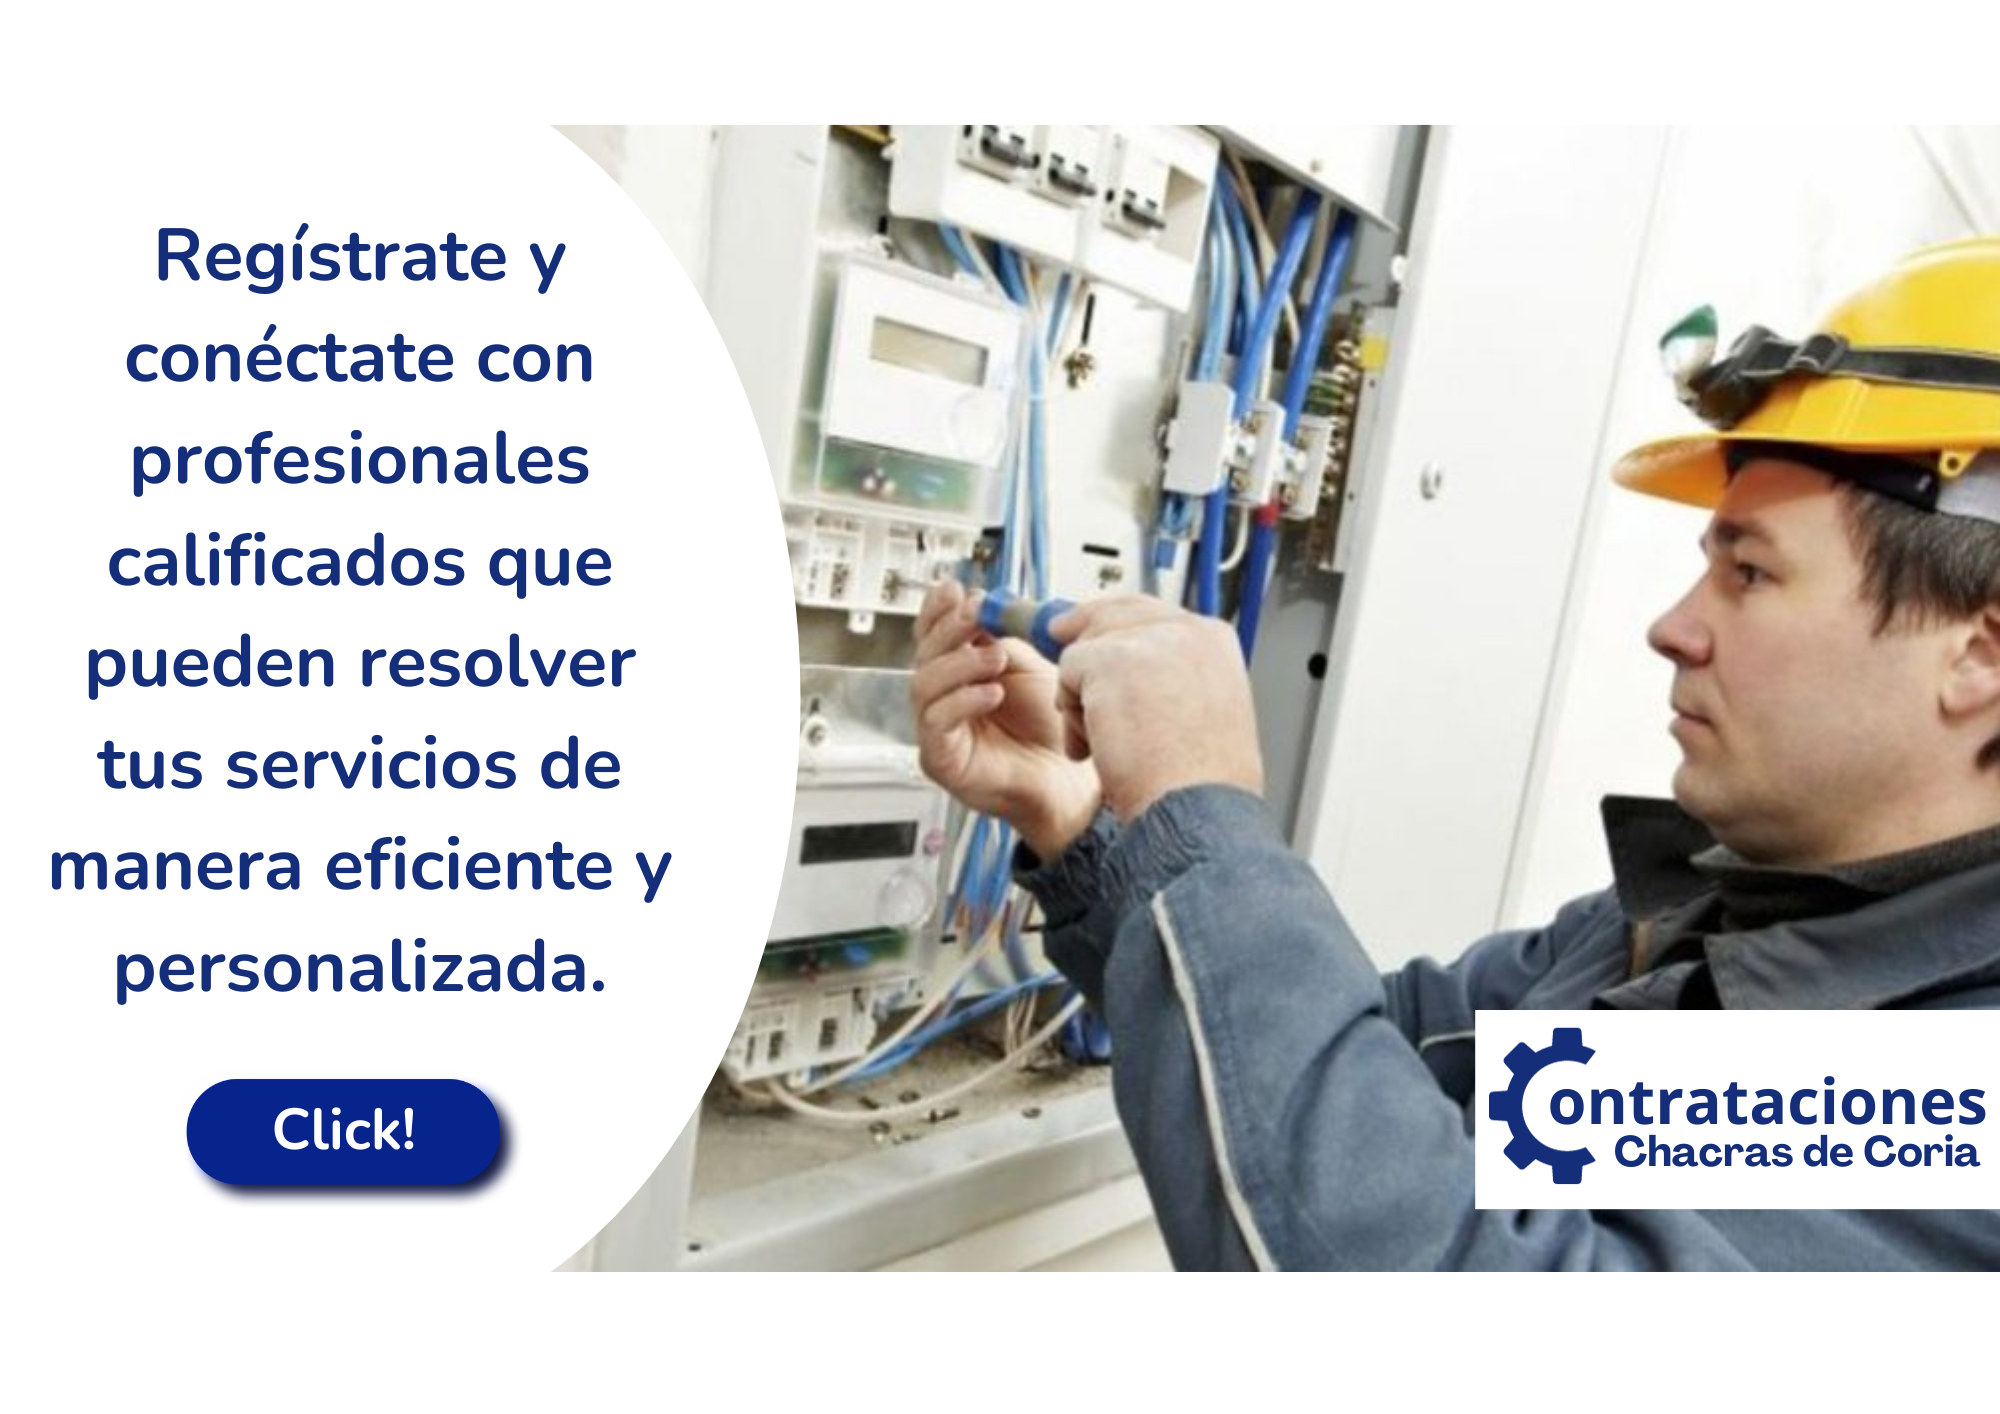
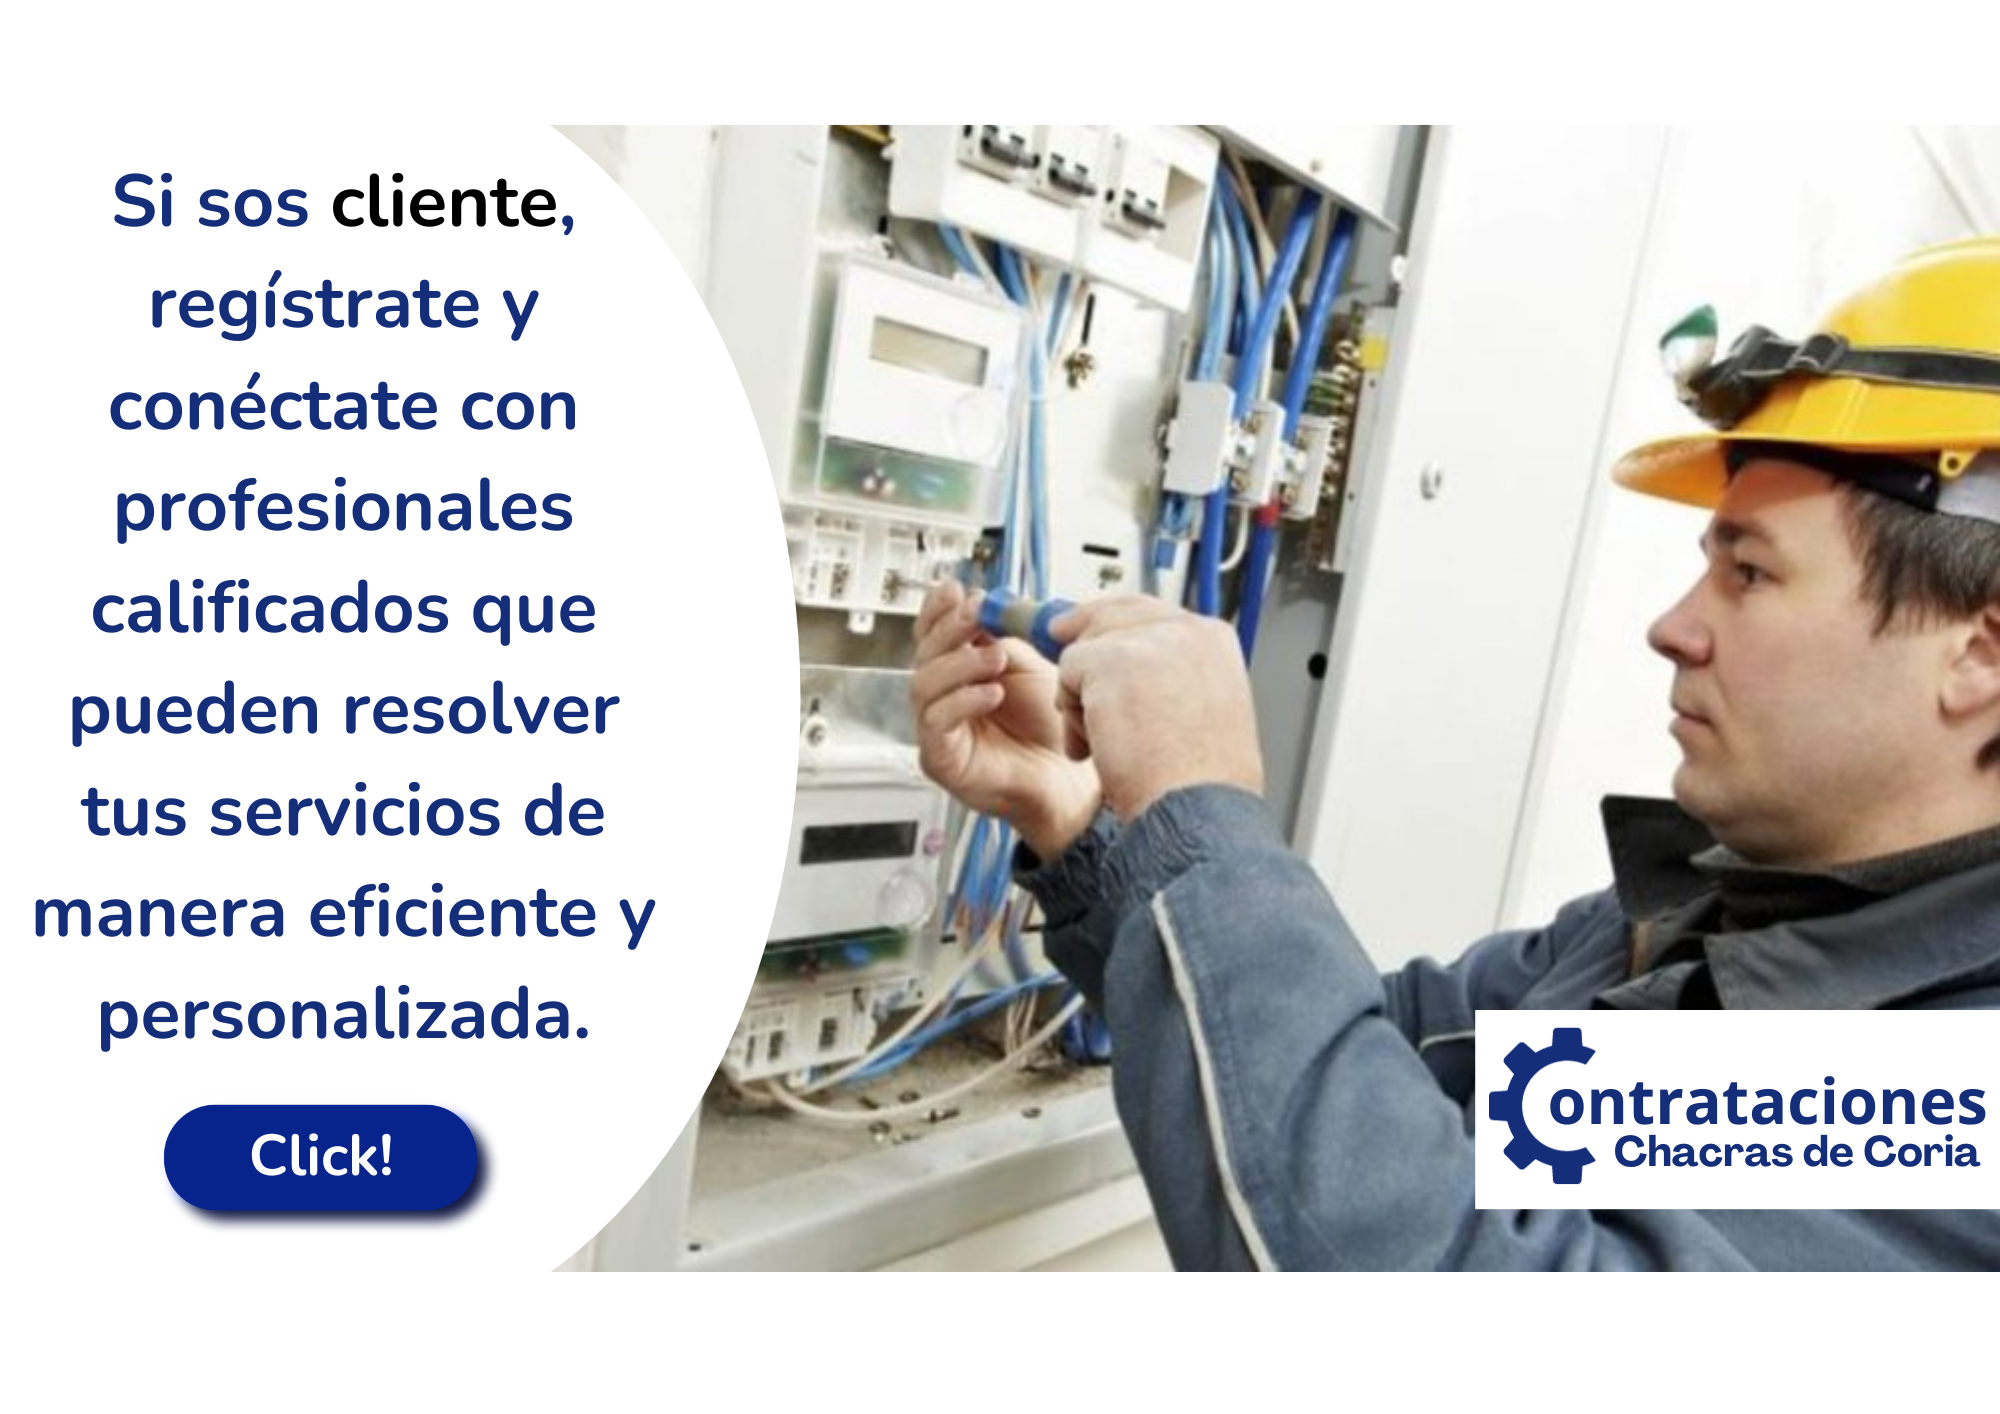
Hice inicio y cambie imgs

Changed region(s): [[0.0, 0.1245, 0.341, 0.8713]]

diff --git a/src/main/resources/templates/inicio.html b/src/main/resources/templates/inicio.html
@@ -1,24 +1,61 @@
 <!DOCTYPE html>
 <html
-  xmlns:th="http://www.thymeleaf.org"
-  xmlns:sec="http://www.thymeleaf.org/extras/spring-security"
->
-  <head th:replace="~{/fragments/head :: head}"></head>
-  <body>
-    <header th:replace="~{/fragments/header :: header}"></header>
-    <nav th:replace="~{/fragments/nav :: nav}"></nav>
+    xmlns:th="http://www.thymeleaf.org"
+    xmlns:sec="http://www.thymeleaf.org/extras/spring-security"
+    >
+    <head th:replace="~{/fragments/head :: head}"></head>
+    <body>
+        <header th:replace="~{/fragments/header :: header}"></header>
+        <nav th:replace="~{/fragments/nav :: nav}"></nav>
 
-    <div id="exito/error">
-      <div th:if="${exito != null}" id="exito">
-        <h5>exito</h5>
-        <p th:text="${exito}"></p>
-      </div>
-      <div th:if="${error != null}" id="error">
-        <h5>error</h5>
-        <p th:text="${error}"></p>
-      </div>
-    </div>
-    <script src="https://cdn.jsdelivr.net/npm/bootstrap@5.0.0/dist/js/bootstrap.bundle.min.js"></script>
-    <footer th:replace="~{/fragments/footer :: footer}"></footer>
-  </body>
+        <br>
+        <div class="container col-xxl-8 px-4 py-5">
+            <div class="row flex-lg-row-reverse align-items-center g-5 py-5">
+                <div class="col-10 col-sm-8 col-lg-6">
+                    <img th:src="@{/4.png}" class="d-block mx-lg-auto img-fluid" alt="Bootstrap Themes" width="700" height="500" loading="lazy">
+                </div>
+                <div class="col-lg-6">
+                    <br>
+                    <!-- Quiero agregar en el h1 th:text=" 'Hola, '+ ${session.usuariosession.nombre} " pero no lo puedo agregar hasta que se solucione el login-->
+                    <h1 class="display-5 fw-bold lh-1 mb-3"></h1>
+                    <p class="lead">Te invitamos a explorar la plataforma, descubrir talentosos proveedores y encontrar soluciones a medida para tus necesidades.</p>
+
+                    <p class="lead"> Conectando necesidades con soluciones. Tu Servicio a un Click de distancia. </p>
+                    <div class="d-grid gap-2 d-md-flex justify-content-md-start">
+                        <button type="button" class="btn btn-primary btn-lg px-4 me-md-2">Explorar</button>
+                    </div>
+                </div>
+            </div>
+        </div>
+
+        <div class="container my-5">
+            <div class="row p-4 pb-0 pe-lg-0 pt-lg-0 align-items-center rounded-3 border shadow-lg">
+                <div class="col-10 col-sm-8 col-lg-6">
+                    <img th:src="@{/5.png}" class="d-block mx-lg-auto img-fluid" alt="Bootstrap Themes" width="700" height="500" loading="lazy">
+                </div>
+                <div class="col-lg-6">
+                    <p class="lead fw-bold" mb-3>Profesiones:</p>
+                    <p class="lead">-Plomeros</p>
+                    <p class="lead">-Electricistas</p>
+                    <p class="lead">-Jardineros</p>
+                    <p class="lead">-Pintores</p>
+                    <p class="lead">-Y mucho más</p>
+
+                </div>
+            </div>
+        </div>
+
+        <div id="exito/error">
+            <div th:if="${exito != null}" id="exito">
+                <h5>exito</h5>
+                <p th:text="${exito}"></p>
+            </div>
+            <div th:if="${error != null}" id="error">
+                <h5>error</h5>
+                <p th:text="${error}"></p>
+            </div>
+        </div>
+        <script src="https://cdn.jsdelivr.net/npm/bootstrap@5.0.0/dist/js/bootstrap.bundle.min.js"></script>
+        <footer th:replace="~{/fragments/footer :: footer}"></footer>
+    </body>
 </html>

diff --git a/src/main/resources/templates/index.html b/src/main/resources/templates/index.html
@@ -144,7 +144,7 @@
             </a>
           </div>
           <div class="carousel-item">
-            <a th:href="@{/usuario/registrar}">
+            <a th:href="@{/proveedor/registrar}">
               <img th:src="@{/2.png}" class="d-block w-100" alt="..." />
             </a>
           </div>

diff --git a/src/main/resources/templates/fragments/nav.html b/src/main/resources/templates/fragments/nav.html
@@ -133,6 +133,7 @@
               role="button"
               data-bs-toggle="dropdown"
               aria-expanded="false"
+              th:if="${session.usuariosession != null}"
             >
               Servicios
             </a>

diff --git a/src/main/resources/templates/fragments/header.html b/src/main/resources/templates/fragments/header.html
@@ -1,6 +1,6 @@
 <header
     class="d-flex flex-wrap justify-content-center py-3 mb-4 border-bottom"
-    style="background-color: #142E79"
+    style="background-color: #142E79;"
     >
 
     <a

diff --git a/src/main/java/Egg/ProyectoFinal/controladores/PortalControlador.java b/src/main/java/Egg/ProyectoFinal/controladores/PortalControlador.java
@@ -21,5 +21,8 @@ public class PortalControlador {
     public String login() {
         return "login.html";
     }
+    
+    
+    
 
 }
